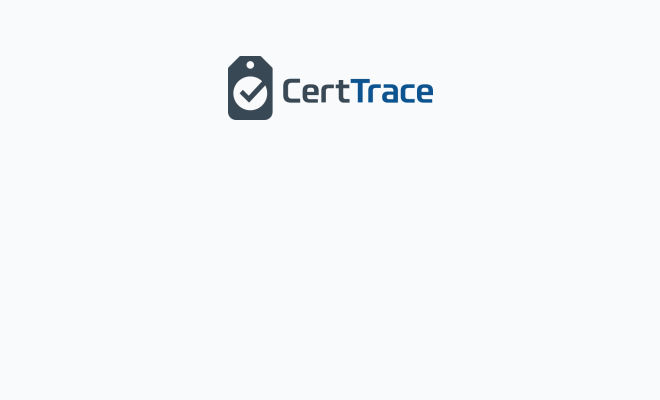
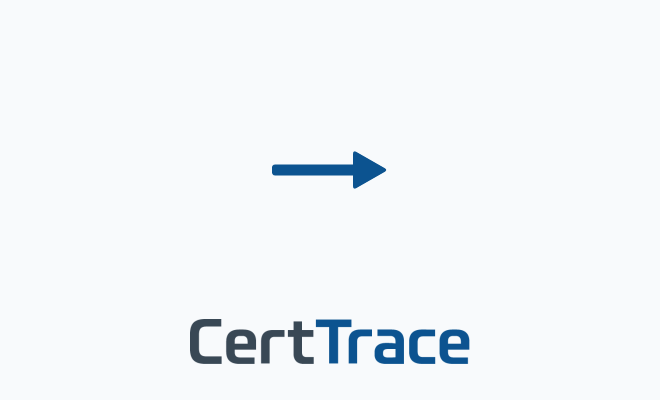
Improve macOS DMG background with submark and drag arrow.
Replace the top horizontal logo with a bottom-centered submark and a brand-blue install arrow between the default icon slots.

Changed region(s): [[0.2727, 0.78, 0.7273, 0.93], [0.3333, 0.12, 0.6667, 0.3], [0.3939, 0.36, 0.6061, 0.48]]

diff --git a/docs/superpowers/plans/2026-07-21-dmg-installer-background.md b/docs/superpowers/plans/2026-07-21-dmg-installer-background.md
@@ -1,0 +1,102 @@
+# DMG Installer Background Implementation Plan
+
+> **For agentic workers:** REQUIRED SUB-SKILL: Use superpowers:subagent-driven-development (recommended) or superpowers:executing-plans to implement this plan task-by-task. Steps use checkbox (`- [ ]`) syntax for tracking.
+
+**Goal:** Regenerate the macOS DMG background so it keeps light slate, drops the top horizontal logo, shows a bottom-centered submark, and draws a solid `#0C5390` drag arrow between the default Finder icon slots.
+
+**Architecture:** All artwork stays in `apps/desktop/branding/generate-installer-assets.mjs`. The script paints a 660×400 slate canvas, composites a Resvg-rendered arrow SVG between Tauri’s default icon positions (app at 180,170; Applications at 480,170), composites `submark.svg` near the bottom, and writes `installer/dmg-background.png`. Tauri config path is unchanged.
+
+**Tech Stack:** Node ESM, `@resvg/resvg-js`, `jimp` ^1.6, existing `pnpm branding:installer` script.
+
+## Global Constraints
+
+- Canvas: 660×400, background `#F8FAFC` (`SLATE_50`)
+- Arrow color: solid `#0C5390`
+- Submark source: `apps/desktop/branding/source/submark.svg`
+- Do not use `logo-horizontal.svg` on the DMG background
+- Do not change Windows NSIS/WiX assets
+- Do not commit unless the user asks
+
+---
+
+### Task 1: Update DMG background generation
+
+**Files:**
+- Modify: `apps/desktop/branding/generate-installer-assets.mjs`
+- Modify: `apps/desktop/branding/installer/dmg-background.png` (regenerated output)
+- Test: run generator + inspect PNG dimensions/content
+- Reference: `docs/superpowers/specs/2026-07-21-dmg-installer-background-design.md`
+
+**Interfaces:**
+- Consumes: existing `renderSvg`, `createCanvas`, `fitWithin`, `readPng`, `BRAND_BLUE` / slate constants, Tauri default icon centers `(180,170)` and `(480,170)`
+- Produces: `createDmgBackground()` writing `dmg-background.png`; helper that renders a filled left-to-right arrow PNG via inline SVG + Resvg
+
+- [x] **Step 1: Add arrow + DMG helpers in the generator**
+
+Replace the inline DMG block in `main()` with a dedicated `createDmgBackground()` that:
+
+1. Creates 660×400 canvas with `SLATE_50`
+2. Renders an inline SVG arrow (~160×40) filled `#0C5390` (thick shaft + triangular head)
+3. Composites the arrow centered between icon slots: midpoint x `((180+480)/2)=330`, y `170`
+4. Renders `submark.svg` (~280px wide max), composites centered near bottom (~y 330)
+5. Does not composite `logo-horizontal.svg`
+
+```js
+const DMG_WIDTH = 660;
+const DMG_HEIGHT = 400;
+const DMG_APP_ICON = { x: 180, y: 170 };
+const DMG_APPLICATIONS_ICON = { x: 480, y: 170 };
+
+function renderArrowPng(width, height) {
+  const shaftH = Math.round(height * 0.28);
+  const headW = Math.round(width * 0.28);
+  const shaftW = width - headW;
+  const cy = height / 2;
+  const svg = `<?xml version="1.0" encoding="UTF-8"?>
+<svg xmlns="http://www.w3.org/2000/svg" width="${width}" height="${height}" viewBox="0 0 ${width} ${height}">
+  <rect x="0" y="${cy - shaftH / 2}" width="${shaftW}" height="${shaftH}" fill="#0C5390"/>
+  <polygon points="${shaftW},0 ${width},${cy} ${shaftW},${height}" fill="#0C5390"/>
+</svg>`;
+  const resvg = new Resvg(svg, { fitTo: { mode: "width", value: width }, background: "transparent" });
+  return resvg.render().asPng();
+}
+
+async function createDmgBackground() {
+  const canvas = createCanvas(DMG_WIDTH, DMG_HEIGHT, SLATE_50);
+
+  const arrow = await readPng(renderArrowPng(160, 48));
+  const arrowX = Math.round((DMG_APP_ICON.x + DMG_APPLICATIONS_ICON.x) / 2 - arrow.width / 2);
+  const arrowY = Math.round(DMG_APP_ICON.y - arrow.height / 2);
+  canvas.composite(arrow, arrowX, arrowY);
+
+  const submark = await fitWithin(await readPng(renderSvg("submark.svg", 640)), 280, 48);
+  const submarkX = Math.round((DMG_WIDTH - submark.width) / 2);
+  const submarkY = DMG_HEIGHT - submark.height - 36;
+  canvas.composite(submark, submarkX, submarkY);
+
+  return canvas;
+}
+```
+
+Wire `main()` to `await writeAsset(await createDmgBackground(), "dmg-background.png")` (or equivalent `.write` path used today).
+
+- [x] **Step 2: Regenerate the asset**
+
+Run: `pnpm --filter @certtrace/desktop branding:installer`  
+Expected: exits 0; `apps/desktop/branding/installer/dmg-background.png` updated.
+
+- [x] **Step 3: Verify output**
+
+- PNG is 660×400
+- No horizontal logo at top
+- Blue arrow near vertical center between left/right icon slots
+- Submark near bottom center
+- Windows `.bmp` outputs still regenerated unchanged in role
+
+- [x] **Step 4: Mark spec status approved**
+
+Set `Status: approved` in `docs/superpowers/specs/2026-07-21-dmg-installer-background-design.md`.
+
+- [ ] **Step 5: Commit only if user asks**
+
+Do not commit by default.

diff --git a/docs/superpowers/specs/2026-07-21-dmg-installer-background-design.md b/docs/superpowers/specs/2026-07-21-dmg-installer-background-design.md
@@ -1,0 +1,69 @@
+# Design: macOS DMG installer background
+
+Date: 2026-07-21  
+Status: approved
+
+## Problem
+
+The macOS DMG window background currently places the horizontal CertTrace logo (`logo-horizontal.svg`) near the top of a light slate canvas. In the mounted Finder window that logo sits between the app icon and Applications alias and reads as small and tucked away. There is no drag arrow, so the install affordance is weaker than common macOS installer patterns (e.g. Firefox).
+
+## Goals
+
+- Keep the existing light slate DMG background (`#F8FAFC`)
+- Remove the horizontal logo from the DMG background
+- Place the submark (`submark.svg`) centered near the bottom of the window
+- Draw a classic left-to-right drag arrow in brand blue `#0C5390` between the app icon and Applications alias
+- Continue generating `dmg-background.png` from `apps/desktop/branding/generate-installer-assets.mjs`
+- Keep Tauri’s existing `bundle.macOS.dmg.background` path unchanged
+
+## Non-goals
+
+- Changing Windows NSIS/WiX installer artwork
+- Redesigning Finder icon positions unless a rebuild shows clear misalignment
+- Hand-authored Figma/PNG as the source of truth (generator remains the pipeline)
+- Colored/gradient DMG backgrounds (Firefox-style color field)
+
+## Design
+
+### Visual layout (660×400)
+
+| Region | Content |
+| --- | --- |
+| Background | Solid light slate `#F8FAFC` |
+| Top | Empty (no horizontal logo) |
+| Middle | Clear space for Finder-drawn CertTrace.app (left) and Applications alias (right); solid `#0C5390` arrow between them |
+| Bottom | `submark.svg` centered, large enough to read clearly without crowding icon labels |
+
+Finder (via Tauri’s DMG bundler) still draws the interactive icons and labels. Only the static background PNG carries branding and the arrow.
+
+### Arrow
+
+- Style: classic thick horizontal shaft + triangular head (Firefox-like), not a thin chevron
+- Color: solid `#0C5390` (same brand blue as the “Trace” portion of the submark)
+- Placement: horizontally between the two icon slots; vertically aligned with the icons
+- Implementation: drawn in the generator (Jimp geometry / filled polygons), not a separate source SVG unless later needed
+
+### Submark
+
+- Source: `apps/desktop/branding/source/submark.svg`
+- Composite onto the canvas near the bottom center
+- Do not use `logo-horizontal.svg` on the DMG background
+
+### Pipeline
+
+1. Update the DMG background generation in `apps/desktop/branding/generate-installer-assets.mjs`
+2. Regenerate `apps/desktop/branding/installer/dmg-background.png`
+3. Leave `apps/desktop/src-tauri/tauri.conf.json` `bundle.macOS.dmg.background` pointing at that file
+4. Verify by building/opening a DMG (or mounting a local bundle) that arrow and submark clear the Finder icons and labels
+
+### Alignment fallback
+
+Default Tauri/Finder icon positions are assumed sufficient. If a rebuild shows the arrow or submark colliding with icons/labels, adjust arrow/submark coordinates in the generator first; only then consider explicit DMG window/icon position config if Tauri exposes it and defaults are wrong.
+
+## Success criteria
+
+- DMG window keeps light slate look
+- No small top horizontal logo
+- Submark visible and centered below the icons
+- Blue drag arrow clearly indicates app → Applications
+- Asset still produced by the existing generator script
